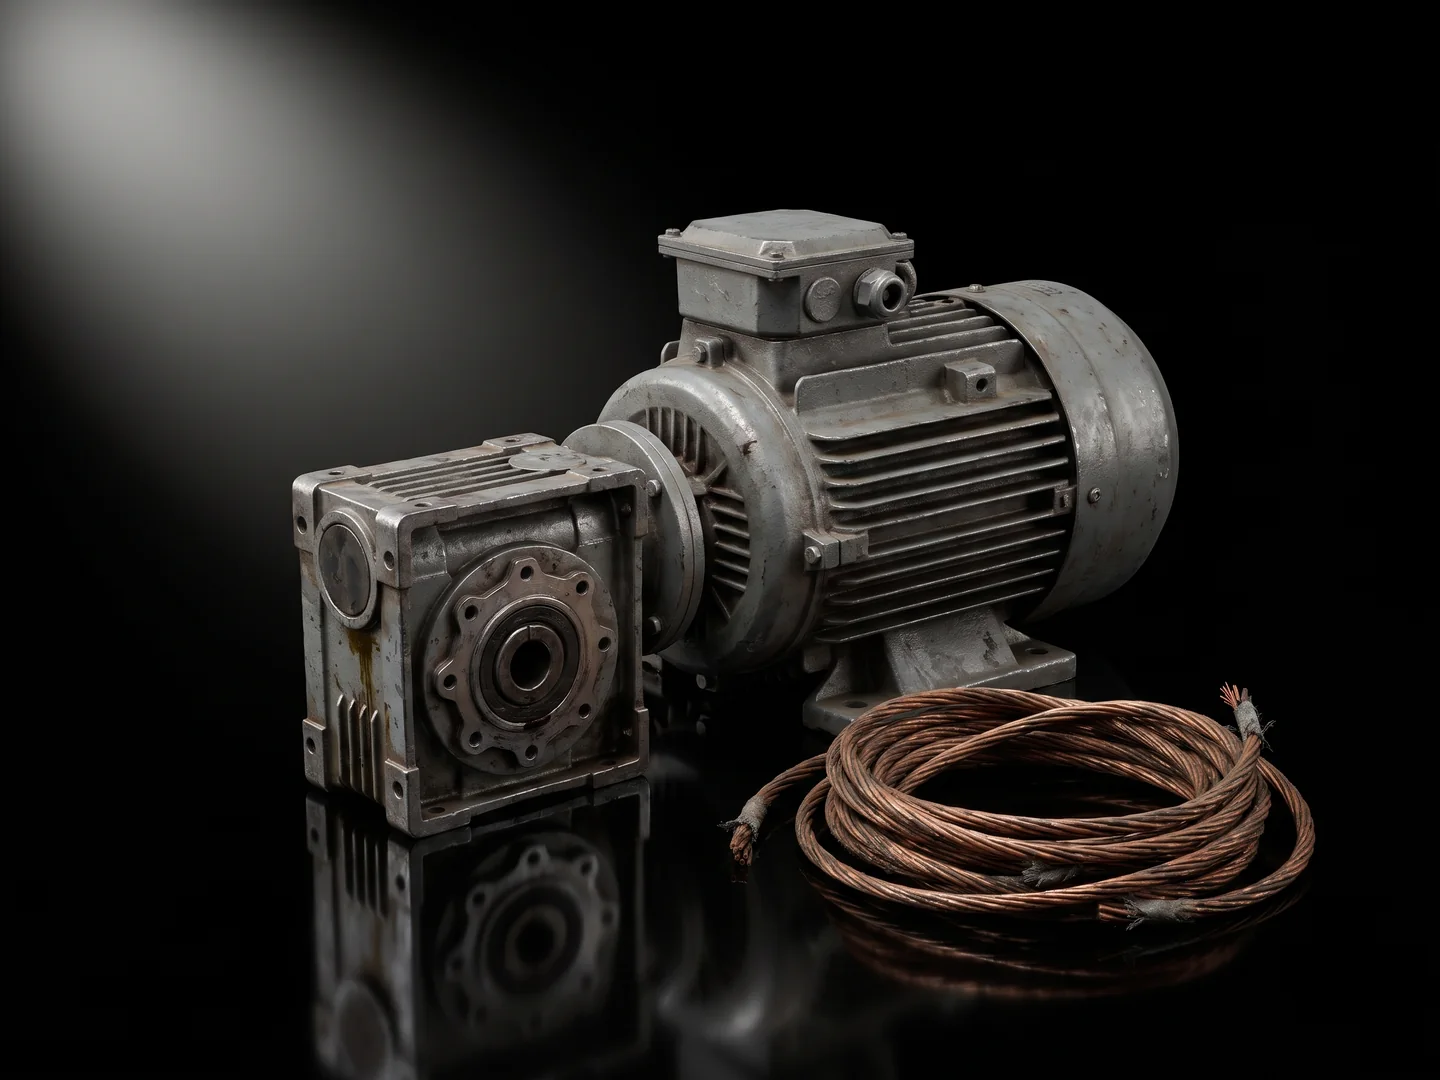
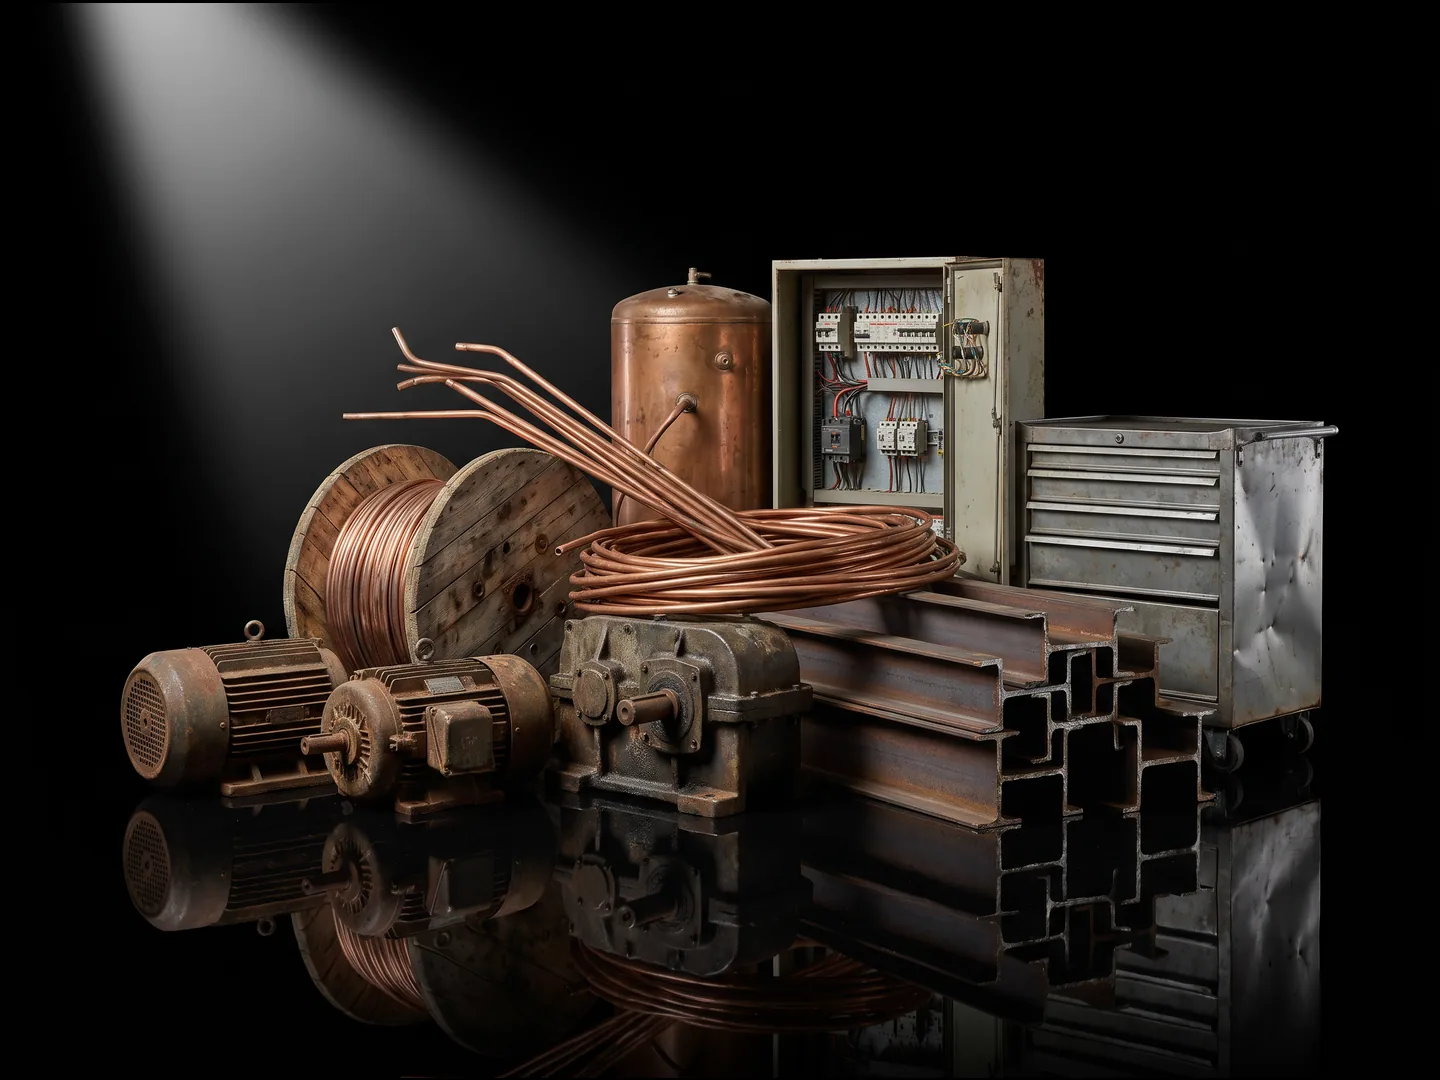
Home cards: fuller images for offices, whitegoods, warehousing, industry
Offices & government now shows a whiteboard and big screens; whitegoods,
warehousing and industry images show a full spread of items. Card copy
updated to match.

Claude-Session: https://claude.ai/code/session_01K6nanTjG6f1eUywKuEvb7R

diff --git a/index.html b/index.html
@@ -234,24 +234,24 @@
         <div class="card-body"><h3>Education</h3><p>Universities, TAFEs and schools: lab and workshop clear-outs, lockers, shelving and <bdi class="nw">steel furniture.</bdi></p></div>
       </a>
       <a class="card-link reveal" href="sectors.html#business">
-        <div class="card-img"><img src="assets/img/r-cabinets.webp" alt="Steel filing cabinets and a cupboard" loading="lazy"></div>
-        <div class="card-body"><h3>Offices&nbsp;&amp;&nbsp;government</h3><p>Strip-outs and relocations: filing cabinets, compactus, desk and partition frames, depot steel <bdi class="nw">and fencing.</bdi></p></div>
+        <div class="card-img"><img src="assets/img/r-offices.webp" alt="A mobile whiteboard and large flat-screen TVs on steel stands" loading="lazy"></div>
+        <div class="card-body"><h3>Offices&nbsp;&amp;&nbsp;government</h3><p>Strip-outs and relocations: whiteboards, big screens and TV stands, filing cabinets, compactus, desk and partition <bdi class="nw">frames.</bdi></p></div>
       </a>
       <a class="card-link reveal" href="sectors.html#business">
         <div class="card-img"><img src="assets/img/r-it.webp" alt="A server rack with stacks of laptops and computer towers" loading="lazy"></div>
         <div class="card-body"><h3>IT&nbsp;&amp; <bdi class="nw">server rooms</bdi></h3><p>Racks, cabinets, servers, network gear and copper cable. Drives out or wiped before <bdi class="nw">we come.</bdi></p></div>
       </a>
       <a class="card-link reveal" href="sectors.html#retailers">
-        <div class="card-img"><img src="assets/img/r-retail.webp" alt="A bay of steel shelving holding an old washing machine, a fridge and an oven" loading="lazy"></div>
-        <div class="card-body"><h3>Whitegoods&nbsp;&amp; <bdi class="nw">retail</bdi></h3><p>Take-back appliances, returns, damaged stock and shop fittings from stores and <bdi class="nw">distribution centres.</bdi></p></div>
+        <div class="card-img"><img src="assets/img/r-retail.webp" alt="Old fridges, a washer and dryer, a dishwasher, an oven, retail shelving and a shopping trolley" loading="lazy"></div>
+        <div class="card-body"><h3>Whitegoods&nbsp;&amp; <bdi class="nw">retail</bdi></h3><p>Fridges, washers, dryers, ovens, returns, shelving and shop fittings from stores and <bdi class="nw">distribution centres.</bdi></p></div>
       </a>
       <a class="card-link reveal" href="sectors.html#logistics">
-        <div class="card-img"><img src="assets/img/r-warehouse.webp" alt="Steel pallet racking, a roll cage and a pallet jack" loading="lazy"></div>
-        <div class="card-body"><h3>Warehousing&nbsp;&amp; <bdi class="nw">logistics</bdi></h3><p>Pallet racking, roll cages, stillages, shelving and pallet jacks from warehouses and <bdi class="nw">freight depots.</bdi></p></div>
+        <div class="card-img"><img src="assets/img/r-warehouse.webp" alt="Pallet racking, roll cages, steel stillages, a pallet jack and a forklift" loading="lazy"></div>
+        <div class="card-body"><h3>Warehousing&nbsp;&amp; <bdi class="nw">logistics</bdi></h3><p>Pallet racking, roll cages, stillages, shelving, pallet jacks and forklifts from warehouses and <bdi class="nw">freight depots.</bdi></p></div>
       </a>
       <a class="card-link reveal" href="sectors.html#industry">
-        <div class="card-img"><img src="assets/img/r-industry.webp" alt="An old electric motor, a gearbox and a coil of copper cable" loading="lazy"></div>
-        <div class="card-body"><h3>Industry&nbsp;&amp; <bdi class="nw">trades</bdi></h3><p>Machinery, motors, plant, cable, copper pipe and offcuts from factories, workshops <bdi class="nw">and fit-outs.</bdi></p></div>
+        <div class="card-img"><img src="assets/img/r-industry.webp" alt="Electric motors, a gearbox, a copper cable drum, copper pipe, a hot water cylinder, a switchboard, steel beams and a tool cabinet" loading="lazy"></div>
+        <div class="card-body"><h3>Industry&nbsp;&amp; <bdi class="nw">trades</bdi></h3><p>Machinery, motors, switchboards, cable, copper pipe, hot water units and steel offcuts from factories <bdi class="nw">and trades.</bdi></p></div>
       </a>
       <a class="card-link reveal" href="sectors.html#automotive">
         <div class="card-img"><img src="assets/img/r-automotive.webp" alt="An engine block, a gearbox, wheel rims and a car door" loading="lazy"></div>
